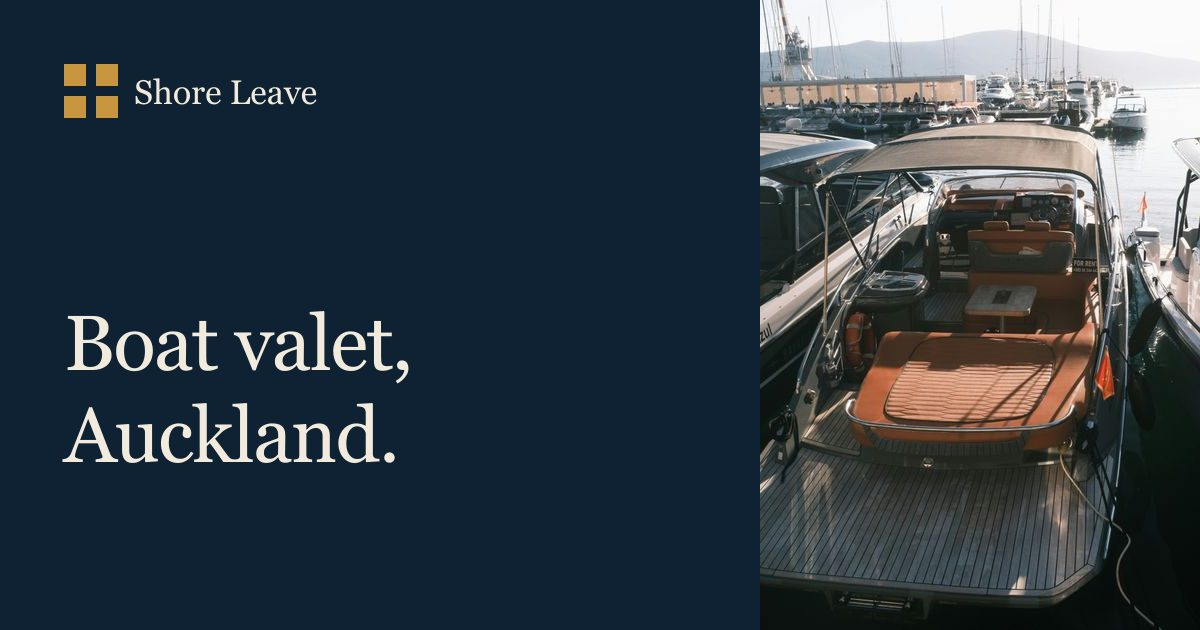
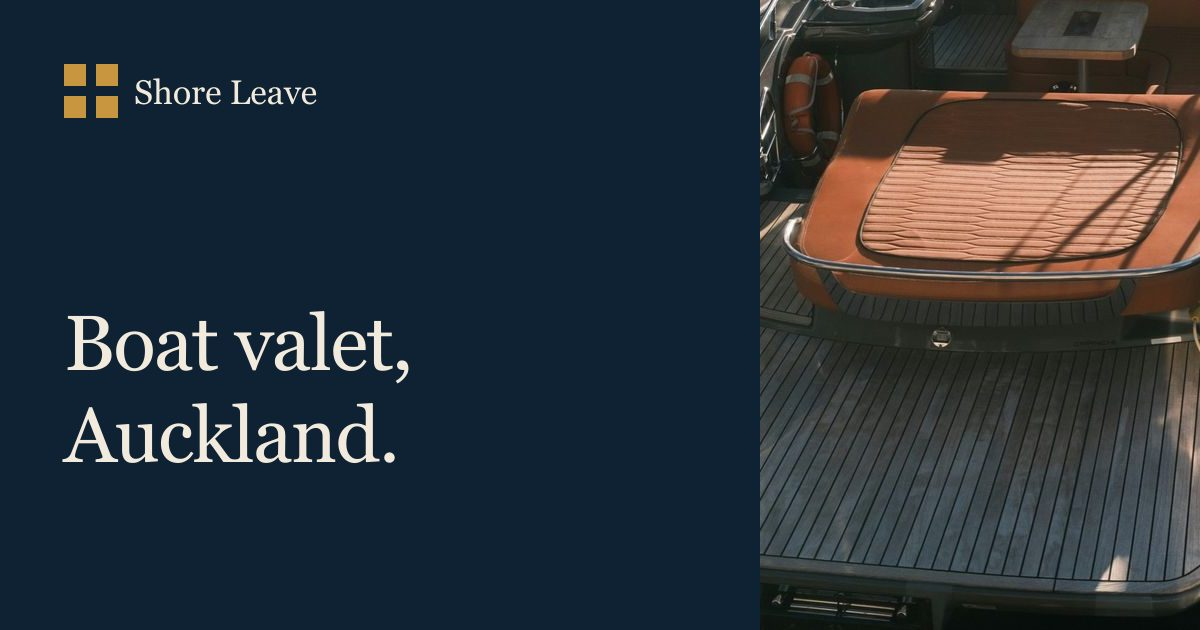
Apply design review fixes: photo signage, display cut, typography, mobile bar

Changed region(s): [[0.6167, 0.0, 1.0, 0.9952]]

diff --git a/src/data/qa.ts b/src/data/qa.ts
@@ -3,27 +3,27 @@ export type QA = { q: string; a: string };
 // Each answer stands alone in 40 to 60 words, so search and AI engines can lift it as written.
 export const valet: QA[] = [
   {
-    q: "What's included in a post-trip boat reset?",
-    a: "A post-trip reset covers the deck wash-down and brush, rubbish off the boat, every bench and surface wiped, the interior vacuumed, beds stripped and remade, and the fridge cleared. It's topside and interior only. You walk off the boat, and it's ready when you come back.",
+    q: "What’s included in a post-trip boat reset?",
+    a: "A post-trip reset covers the deck wash-down and brush, rubbish off the boat, every bench and surface wiped, the interior vacuumed, beds stripped and remade, and the fridge cleared. It’s topside and interior only. You walk off the boat, and it’s ready when you come back.",
   },
   {
     q: 'How much does a boat valet cost in Auckland?',
-    a: "It depends on the boat's length, its layout, how it's been left and where it's kept, so we quote each job instead of publishing a rate card. Fill in the booking form with your boat and what you need, and we'll come back with a price before anything starts.",
+    a: "It depends on the boat’s length, its layout, how it’s been left and where it’s kept, so we quote each job instead of publishing a rate card. Fill in the booking form with your boat and what you need, and we’ll come back with a price before anything starts.",
   },
   {
     q: 'Can someone clean my boat after the weekend?',
-    a: "Yes. That's the job. Book through the form or call 022 305 3853, tell us where the boat is, and we'll arrange access. You can leave straight from the pontoon or the driveway. We handle the wash-down, the rubbish, the interior and the beds.",
+    a: "Yes. That’s the job. Book through the form or call 022 305 3853, tell us where the boat is, and we’ll arrange access. You can leave straight from the pontoon or the driveway. We handle the wash-down, the rubbish, the interior and the beds.",
   },
   {
     q: 'Do you make beds on a boat?',
-    a: "Yes. Beds are part of every reset. We strip them and remake them with clean linen, so the cabin is ready for the next trip. Tell us on the booking form where your spare linen lives, and how many berths you sleep, and we'll sort out the rest with you.",
+    a: "Yes. Beds are part of every reset. We strip them and remake them with clean linen, so the cabin is ready for the next trip. Tell us on the booking form where your spare linen lives, and how many berths you sleep, and we’ll sort out the rest with you.",
   },
 ];
 
 export const restock: QA[] = [
   {
     q: 'Can someone clean my boat and stock the fridge before my trip?',
-    a: "Yes. Book a post-trip reset, a restock, or both. Send us your list of drinks, ice, snacks and groceries, and we'll shop it, load the fridge and pantry, make the beds and leave the boat ready. You turn up with your bag and go.",
+    a: "Yes. Book a post-trip reset, a restock, or both. Send us your list of drinks, ice, snacks and groceries, and we’ll shop it, load the fridge and pantry, make the beds and leave the boat ready. You turn up with your bag and go.",
   },
   {
     q: 'How does boat provisioning work in Auckland?',
@@ -31,41 +31,41 @@ export const restock: QA[] = [
   },
   {
     q: 'Can you deliver groceries to my boat at Pine Harbour?',
-    a: "Yes. Pine Harbour Marina is our home berth area. We bring the groceries down the pontoon, stow them in the fridge and pantry, and leave the boat ready. Tell us your berth and pier on the booking form, and we'll arrange access with you before the job.",
+    a: "Yes. Pine Harbour Marina is our home berth area. We bring the groceries down the pontoon, stow them in the fridge and pantry, and leave the boat ready. Tell us your berth and pier on the booking form, and we’ll arrange access with you before the job.",
   },
   {
     q: 'What can I put on my restock list?',
-    a: "Anything you'd normally pack for the trip: drinks, ice, snacks, breakfast, dinner, sunscreen, the good coffee. Be as specific as you like, brand and all. If you've got a regular order, tell us and we'll keep it on file, so the next restock is a one-line text.",
+    a: "Anything you’d normally pack for the trip: drinks, ice, snacks, breakfast, dinner, sunscreen, the good coffee. Be as specific as you like, brand and all. If you’ve got a regular order, tell us and we’ll keep it on file, so the next restock is a one-line text.",
   },
 ];
 
 export const trailer: QA[] = [
   {
     q: 'Do you clean trailer boats at home?',
-    a: "Yes. We come to your driveway after the trip and do the wash-down, rubbish, surfaces and interior while the boat sits on the trailer. Callouts cover Beachlands, Maraetai, the North Shore and Whangaparāoa. If you're elsewhere in Auckland, ask anyway and we'll tell you straight.",
+    a: "Yes. We come to your driveway after the trip and do the wash-down, rubbish, surfaces and interior while the boat sits on the trailer. Callouts cover Beachlands, Maraetai, the North Shore and Whangaparāoa. If you’re elsewhere in Auckland, ask anyway and we’ll tell you straight.",
   },
   {
     q: 'What do you need from me for a trailer boat clean?',
-    a: "An outside tap, room to walk around the boat, and a clear run to it. That's about it. Tell us your suburb, the boat's length and when you'll be back from the trip. You don't need to be home if we can reach the boat and the tap.",
+    a: "An outside tap, room to walk around the boat, and a clear run to it. That’s about it. Tell us your suburb, the boat’s length and when you’ll be back from the trip. You don’t need to be home if we can reach the boat and the tap.",
   },
   {
     q: 'Can you clean my trailer boat in East Auckland?',
-    a: "Yes, in Beachlands and Maraetai we come to your home. For Howick, Bucklands Beach, Half Moon Bay and nearby suburbs, put your address in the booking form and we'll tell you honestly whether we can get there. We'd rather say no than turn up late.",
+    a: "Yes, in Beachlands and Maraetai we come to your home. For Howick, Bucklands Beach, Half Moon Bay and nearby suburbs, put your address in the booking form and we’ll tell you honestly whether we can get there. We’d rather say no than turn up late.",
   },
 ];
 
 export const pineHarbour: QA[] = [
   {
     q: 'Do you clean boats at Pine Harbour Marina?',
-    a: "Yes. Pine Harbour Marina in Beachlands is where we work most. We reset boats on their berths: deck wash-down, rubbish, surfaces, interior, beds and fridge. Book through the form with your pier and berth, and we'll arrange how we get aboard before the job starts.",
+    a: "Yes. Pine Harbour Marina in Beachlands is where we work most. We reset boats on their berths: deck wash-down, rubbish, surfaces, interior, beds and fridge. Book through the form with your pier and berth, and we’ll arrange how we get aboard before the job starts.",
   },
   {
     q: 'How do you get onto my boat at the marina?',
-    a: "You choose. Some owners meet us on the pontoon the first time. Others leave a key in a lockbox aboard or hand one over for regular resets. We agree this before the first job, and it's written into our terms. Your key is never labelled with your boat or berth.",
+    a: "You choose. Some owners meet us on the pontoon the first time. Others leave a key in a lockbox aboard or hand one over for regular resets. We agree this before the first job, and it’s written into our terms. Your key is never labelled with your boat or berth.",
   },
   {
     q: 'Can you reset my boat while I am away?',
-    a: "Yes, and that's the point. Most owners leave the boat after the trip and don't see it again until the next one. We send you a short note and photos when we're finished, so you know it's done. If anything needs your attention, you'll hear it from us.",
+    a: "Yes, and that’s the point. Most owners leave the boat after the trip and don’t see it again until the next one. We send you a short note and photos when we’re finished, so you know it’s done. If anything needs your attention, you’ll hear it from us.",
   },
 ];
 
@@ -76,22 +76,22 @@ export const beachlands: QA[] = [
   },
   {
     q: 'I launch at Sunkist Bay. Can you clean the boat when I get home?',
-    a: "Yes. Tow home from Sunkist Bay Reserve as usual, tell us when you're back, and we'll come to your driveway in Beachlands. Salt is easier to shift the same day or the next, so the sooner you tell us the better. The booking form takes under two minutes.",
+    a: "Yes. Tow home from Sunkist Bay Reserve as usual, tell us when you’re back, and we’ll come to your driveway in Beachlands. Salt is easier to shift the same day or the next, so the sooner you tell us the better. The booking form takes under two minutes.",
   },
 ];
 
 export const eastAuckland: QA[] = [
   {
     q: 'Who cleans boats in East Auckland?',
-    a: "Shore Leave covers the eastern end of the coast: Pine Harbour Marina berths, and trailer boats at home in Beachlands and Maraetai. We do the post-trip reset, the beds and the fridge restock. If you're closer to Howick or Half Moon Bay, send your address and we'll let you know.",
+    a: "Shore Leave covers the eastern end of the coast: Pine Harbour Marina berths, and trailer boats at home in Beachlands and Maraetai. We do the post-trip reset, the beds and the fridge restock. If you’re closer to Howick or Half Moon Bay, send your address and we’ll let you know.",
   },
   {
     q: 'Do you come to Maraetai?',
-    a: "Yes. We do trailer-boat callouts in Maraetai, whether you launch at the Maraetai Park ramp or the Omana Esplanade ramp. Tow home, tell us you're back, and we'll reset the boat on the trailer. Your restock can be done the same way before the next trip.",
+    a: "Yes. We do trailer-boat callouts in Maraetai, whether you launch at the Maraetai Park ramp or the Omana Esplanade ramp. Tow home, tell us you’re back, and we’ll reset the boat on the trailer. Your restock can be done the same way before the next trip.",
   },
   {
     q: 'How far do you travel for a boat clean?',
-    a: "We work Pine Harbour Marina, Beachlands, Maraetai, the North Shore and Whangaparāoa. Past that, it depends on the job and the week. Put your suburb in the booking form. If we can't get there and do it properly, we'll say so instead of stretching the schedule.",
+    a: "We work Pine Harbour Marina, Beachlands, Maraetai, the North Shore and Whangaparāoa. Past that, it depends on the job and the week. Put your suburb in the booking form. If we can’t get there and do it properly, we’ll say so instead of stretching the schedule.",
   },
 ];
 
@@ -102,14 +102,14 @@ export const pricing: QA[] = [
   },
   {
     q: 'How do I get a quote for my boat?',
-    a: "Fill in the booking form with your boat type, length, location and what you'd like done. It takes under two minutes. We'll reply with a price and the next steps. There's no obligation, and you can also call or text 022 305 3853 if you'd rather talk.",
+    a: "Fill in the booking form with your boat type, length, location and what you’d like done. It takes under two minutes. We’ll reply with a price and the next steps. There’s no obligation, and you can also call or text 022 305 3853 if you’d rather talk.",
   },
 ];
 
 export const general: QA[] = [
   {
     q: 'What is Shore Leave?',
-    a: "Shore Leave is a post-trip reset and restock service for boat owners in Auckland. After a trip we clean the boat, make the beds and clear the fridge. Before the next one we stock it to your list. It's run by Zak and Bozzy, and it's hospitality for boat owners.",
+    a: "Shore Leave is a post-trip reset and restock service for boat owners in Auckland. After a trip we clean the boat, make the beds and clear the fridge. Before the next one we stock it to your list. It’s run by Zak and Bozzy, and it’s hospitality for boat owners.",
   },
   {
     q: 'What areas do you cover?',
@@ -117,14 +117,14 @@ export const general: QA[] = [
   },
   {
     q: 'What happens if the weather turns?',
-    a: "Safety comes first. If it isn't safe to work on the boat or the pontoon, we'll tell you as soon as we can and move the job to the next time that suits you. A rescheduled job costs you nothing extra. A restock can usually go ahead regardless.",
+    a: "Safety comes first. If it isn’t safe to work on the boat or the pontoon, we’ll tell you as soon as we can and move the job to the next time that suits you. A rescheduled job costs you nothing extra. A restock can usually go ahead regardless.",
   },
   {
     q: 'What if something gets damaged?',
-    a: "Tell us, and we'll tell you. We take photos before and after each job, and if we notice damage or break something, you'll hear about it the same day with the photos attached. Nothing gets hidden or left for you to find on the next trip.",
+    a: "Tell us, and we’ll tell you. We take photos before and after each job, and if we notice damage or break something, you’ll hear about it the same day with the photos attached. Nothing gets hidden or left for you to find on the next trip.",
   },
   {
     q: 'Are you a new business?',
-    a: "Yes, and we won't pretend otherwise. There are no reviews on this site because we haven't earned them yet. Our first boats get Zak or Bozzy on the job, a straight quote and a direct line if anything isn't right. That's how we plan to earn them.",
+    a: "Yes, and we won’t pretend otherwise. There are no reviews on this site because we haven’t earned them yet. Our first boats get Zak or Bozzy on the job, a straight quote and a direct line if anything isn’t right. That’s how we plan to earn them.",
   },
 ];

diff --git a/src/pages/llms.txt.ts b/src/pages/llms.txt.ts
@@ -17,8 +17,8 @@ ${SITE.name} is a post-trip reset and restock service: hospitality for boat owne
 ## Services
 
 - [Boat valet Auckland](${u('/boat-valet-auckland')}): post-trip reset. Deck wash-down and brush, rubbish removed, surfaces wiped, interior vacuumed, beds remade, fridge cleared.
-- [Boat fridge restock](${u('/boat-fridge-restock')}): boat provisioning. Fridge and pantry stocked to the owner's list with drinks, ice, snacks and groceries.
-- [Trailer boat cleaning](${u('/trailer-boat-cleaning')}): callout to the owner's home.
+- [Boat fridge restock](${u('/boat-fridge-restock')}): boat provisioning. Fridge and pantry stocked to the owner’s list with drinks, ice, snacks and groceries.
+- [Trailer boat cleaning](${u('/trailer-boat-cleaning')}): callout to the owner’s home.
 - [Pine Harbour boat cleaning](${u('/pine-harbour-boat-cleaning')}): service on the berth at Pine Harbour Marina, Beachlands.
 
 ## Areas

diff --git a/src/lib/email.ts b/src/lib/email.ts
@@ -56,9 +56,9 @@ export function leadEmail(l: Lead) {
 export function confirmationEmail(l: Lead) {
   const first = esc(l.name.split(' ')[0]);
   return {
-    subject: "Got it. Here's what happens next.",
+    subject: "Got it. Here’s what happens next.",
     html: shell(
-      "Got it. Here's what happens next.",
+      "Got it. Here’s what happens next.",
       `<p style="font-size:16px;line-height:1.5">Thanks ${first}. Your request is with us.</p>
 <ol style="font-size:16px;line-height:1.6;padding-left:20px"><li>Zak or Bozzy reads it.</li><li>We reply with a quote and any questions.</li><li>We agree on access, and the boat gets reset.</li></ol>
 <p style="font-size:16px;line-height:1.5">In a hurry? Call or text 022 305 3853.</p>`,

diff --git a/src/styles/global.css b/src/styles/global.css
@@ -33,7 +33,7 @@
   }
   body {
     min-height: 100dvh;
-    padding-bottom: 4rem;
+    padding-bottom: calc(3.5rem + env(safe-area-inset-bottom));
   }
   @media (min-width: 64rem) {
     body {
@@ -46,6 +46,7 @@
     font-family: var(--font-display);
     font-weight: 400;
     font-optical-sizing: auto;
+    font-variation-settings: 'opsz' 144;
     letter-spacing: -0.02em;
     line-height: 1.04;
     text-wrap: balance;
@@ -198,6 +199,12 @@
   }
   .rise-3 {
     transition-delay: 0.2s;
+  }
+  #mbar {
+    transition: transform 0.35s var(--ease-tide);
+  }
+  html.bar-hold #mbar {
+    transform: translateY(100%);
   }
   html.hold .rise {
     opacity: 0;

diff --git a/src/config.ts b/src/config.ts
@@ -6,7 +6,7 @@ export const SITE = {
   phoneDisplay: '022 305 3853',
   phoneTel: '+64223053853',
   email: 'zak@tallynz.co',
-  tagline: "Get off the boat. We'll reset it.",
+  tagline: "Get off the boat. We’ll reset it.",
   summary:
     'Shore Leave is a post-trip reset and restock service for boat owners in Auckland. We clean the boat, make the beds and stock the fridge, so it is ready for the next trip.',
   area: 'Pine Harbour Marina berths, plus trailer-boat callouts in Beachlands, Maraetai, the North Shore and Whangaparāoa',

diff --git a/docs/image-credits.md b/docs/image-credits.md
@@ -15,6 +15,10 @@ Every photo on the live site marked `data-replace="own-photo"` is a stand-in. Sw
 | `pontoon.jpg` | Beachlands | Adam Edwards | https://unsplash.com/photos/yFJ0NIn_ZnU |
 | `ropes.jpg` | East Auckland, About | Haberdoedas | https://unsplash.com/photos/6LvLIqlsQe0 |
 
+`cockpit.jpg`, `marina-walkway.jpg` and `deck-sunpad.jpg` are cropped to remove third-party signs, a boat name and a promenade.
+
+Still needed from real jobs: a boat straight after a trip, a made berth, and a stocked boat fridge.
+
 None of these photos show Pine Harbour, Beachlands or Auckland. The pages don't claim they do. Real local photos will help both trust and local search.
 
 ## Loading screen frames
